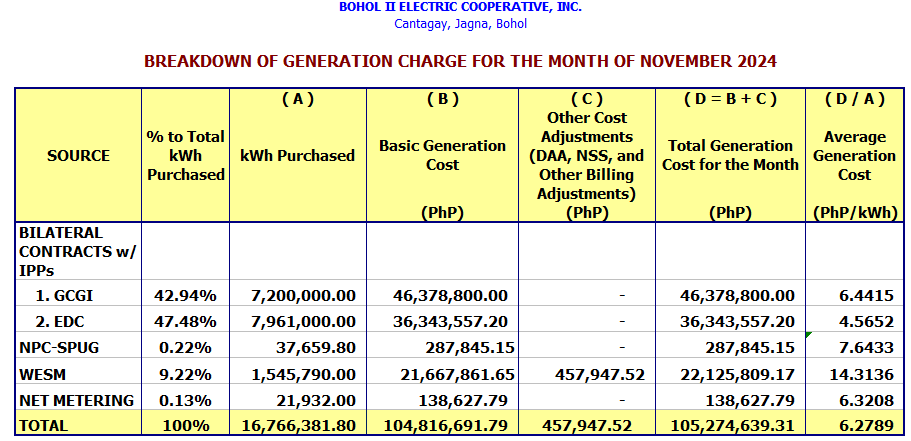
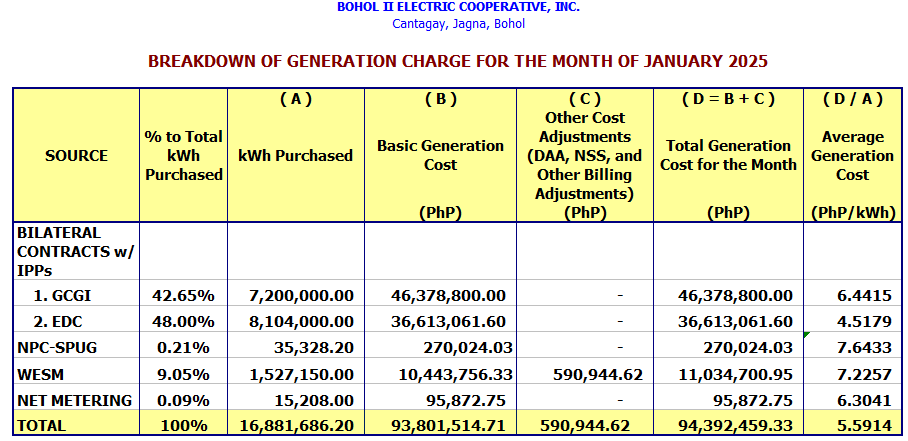
update generation rate jan 2025

diff --git a/src/components/GenRates.jsx b/src/components/GenRates.jsx
@@ -6,13 +6,13 @@ const img = [
   "assets/rates/gr2.png",
 ];
 
-const months = ["November", "October", "September"];
+const months = ["January", "December", "November"];
 
 const Rates = () => {
   return (
     <section>
       <div className="flex items-center justify-center text-xl py-12 md:text-2xl lg:text-4xl font-[Gloock] font-extrabold lg:py-12 uppercase">
-        Breakdown Of Generation Charge For The Month Of {months[0]} 2024
+        Breakdown Of Generation Charge For The Month Of {months[0]} 2025
       </div>
       <div className="flex flex-col items-center justify-center">
         <img draggable={false} src={img[0]} alt="rate" />
